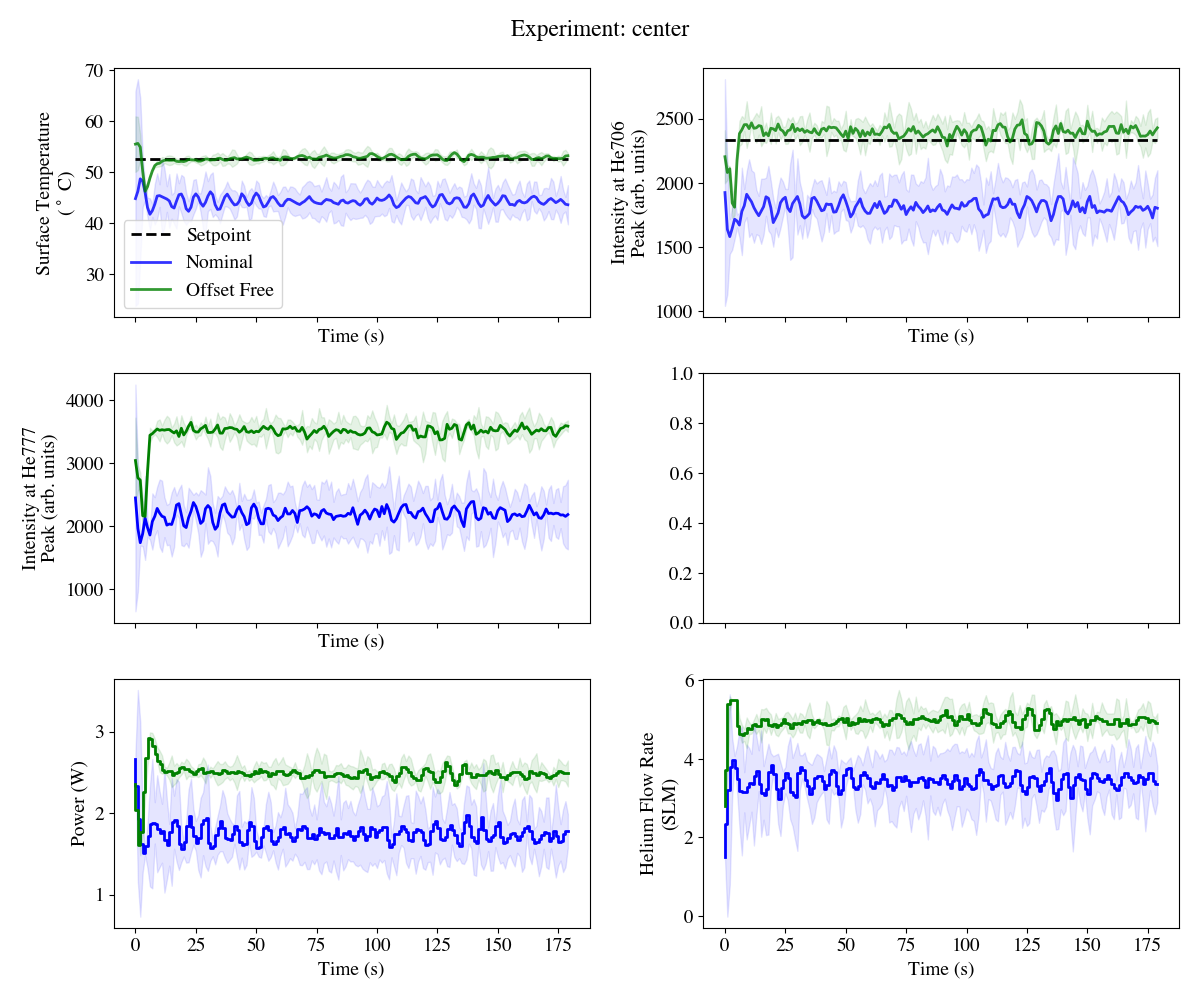
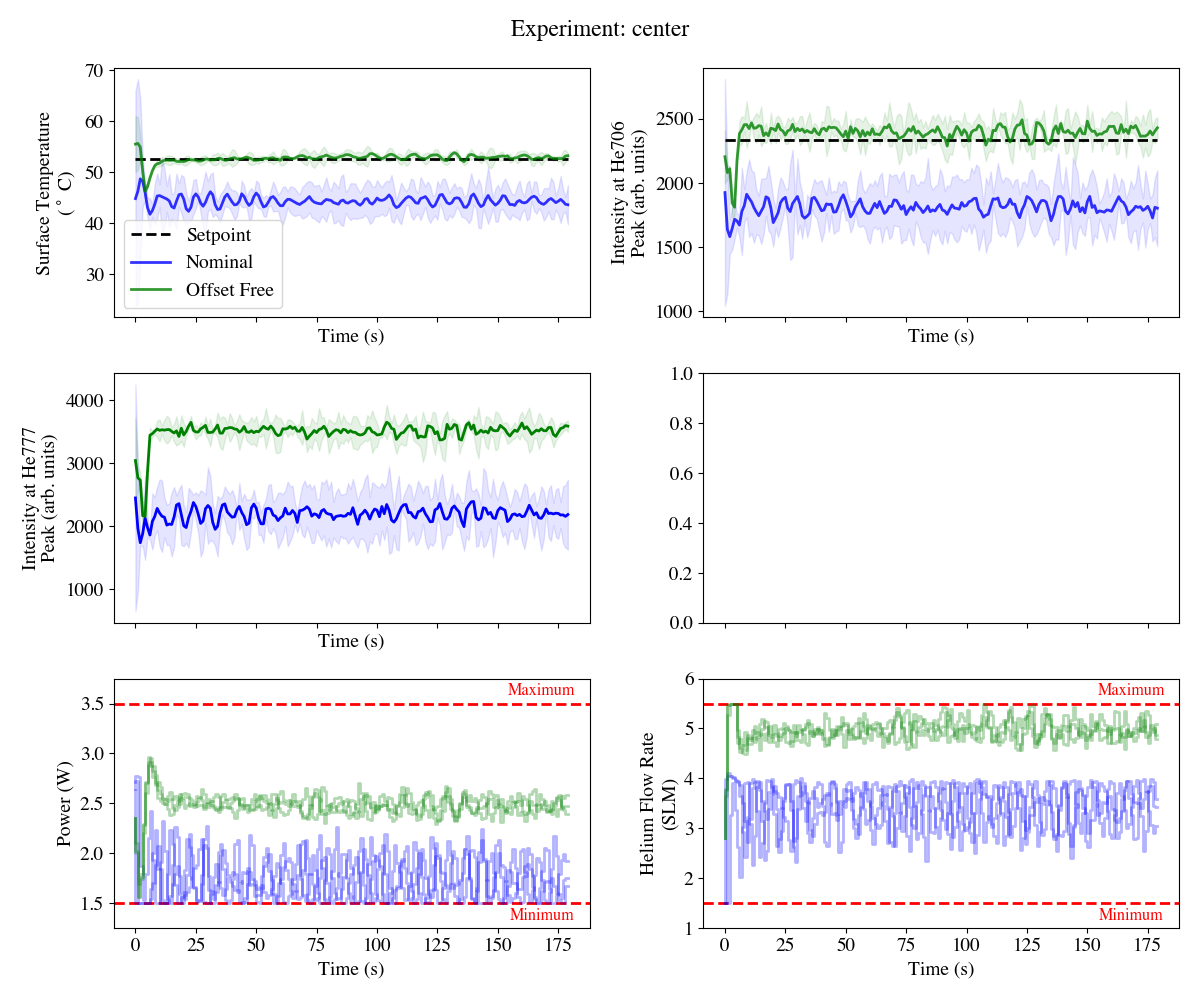
update plotting

diff --git a/OffsetFreeFilter/run_sim.py b/OffsetFreeFilter/run_sim.py
@@ -1,4 +1,4 @@
-#@title Import Packages
+# Import Packages
 import numpy as np
 import matplotlib.pyplot as plt
 
@@ -10,7 +10,7 @@ from utils.observer import EKF
 
 ### user inputs/options
 ts = 1.0 # sampling time, ensure it is the same as the model used
-Nsim = int(10*60/ts) # set the simulation horizon
+Nsim = int(8*60/ts) # set the simulation horizon
 plant_model_file = './models/APPJmodel_TEOS_UCB_LAM_modord3.mat'
 control_model_file = './models/APPJmodel_TEOS_UCB_LAM_modord3.mat'
 # for testing new LTI model for experiments 
@@ -85,14 +85,14 @@ qplot = sim_data['Usim'][1,:] + ussp[1]
 fval = sim_data['fval_sim']
 
 fig, axes = plt.subplots(3,2, sharex=True, figsize=(12,8))
-axes[0,0].plot(np.arange(len(Tref))*ts, Tref, 'k--', label='Reference')
-axes[0,0].axhline(x_max[0]+xss[0], color='r', ls='--', label='Maximum')
-axes[0,0].plot(np.arange(len(Tplot))*ts, Tplot, label='Nominal')
+axes[0,0].plot(np.arange(len(Tref))*ts, Tref, 'k--', label='Setpoint')
+# axes[0,0].axhline(x_max[0]+xss[0], color='r', ls='--', label='Maximum')
+axes[0,0].plot(np.arange(len(Tplot))*ts, Tplot, label='Nominal MPC')
 axes[0,0].set_xlabel('Time (s)')
-axes[0,0].set_ylabel(r'Surface Temperature\n($^\circ C$)')
+axes[0,0].set_ylabel('Surface Temperature\n('+r'$^\circ$'+'C)')
 
-axes[0,1].plot(np.arange(len(I706ref))*ts, I706ref, 'k--', label='Reference')
-axes[0,1].plot(np.arange(len(I706))*ts, I706, label='Nominal')
+axes[0,1].plot(np.arange(len(I706ref))*ts, I706ref, 'k--', label='Setpoint')
+axes[0,1].plot(np.arange(len(I706))*ts, I706, label='Nominal MPC')
 axes[0,1].set_xlabel('Time (s)')
 axes[0,1].set_ylabel('Intensity at He706\nPeak (arb. units)')
 
@@ -100,14 +100,42 @@ axes[1,0].plot(np.arange(len(I777))*ts, I777, label='Nominal')
 axes[1,0].set_xlabel('Time (s)')
 axes[1,0].set_ylabel('Intensity at O777\nPeak (arb. units)')
 
-axes[1,1].plot(np.arange(len(fval))*ts, fval)
+axes[1,1].plot(np.arange(len(fval))*ts, fval, color='g')
 axes[1,1].set_xlabel('Time (s)')
 axes[1,1].set_ylabel('Filter Value')
 
+axes[2,0].axhline(u_max[0]+uss[0], color='r', ls='--')
+axes[2,0].text(0.9, 0.9, 'Maximum', fontsize='small',
+               horizontalalignment='center',
+               verticalalignment='center', 
+               transform=axes[2,0].transAxes,
+               color='r',
+               )
+axes[2,0].axhline(u_min[0]+uss[0], color='r', ls='--')
+axes[2,0].text(0.9, 0.1, 'Minimum', fontsize='small',
+               horizontalalignment='center',
+               verticalalignment='center', 
+               transform=axes[2,0].transAxes,
+               color='r',
+               )
 axes[2,0].step(np.arange(len(Pplot))*ts, Pplot, label='Nominal')
 axes[2,0].set_xlabel('Time (s)')
 axes[2,0].set_ylabel('Applied Power (W)')
 
+axes[2,1].axhline(u_max[1]+uss[1], color='r', ls='--')
+axes[2,1].text(0.9, 0.9, 'Maximum', fontsize='small',
+               horizontalalignment='center',
+               verticalalignment='center', 
+               transform=axes[2,1].transAxes,
+               color='r',
+               )
+axes[2,1].axhline(u_min[1]+uss[1], color='r', ls='--')
+axes[2,1].text(0.9, 0.1, 'Minimum', fontsize='small',
+               horizontalalignment='center',
+               verticalalignment='center', 
+               transform=axes[2,1].transAxes,
+               color='r',
+               )
 axes[2,1].step(np.arange(len(qplot))*ts, qplot, label='Nominal')
 axes[2,1].set_xlabel('Time (s)')
 axes[2,1].set_ylabel('Helium Flow Rate (SLM)')
@@ -163,16 +191,18 @@ Pplot = sim_data['Usim'][0,:] + ussp[0]
 qplot = sim_data['Usim'][1,:] + ussp[1]
 fval = sim_data['fval_sim']
 
-axes[0,0].plot(np.arange(len(Tplot))*ts, Tplot, label='Offset-free')
+axes[0,0].plot(np.arange(len(Tplot))*ts, Tplot, label='Offset-free MPC')
+axes[0,0].legend(fontsize='small', loc='upper center')
 
-axes[0,1].plot(np.arange(len(I706))*ts, I706, label='Offset-free')
+axes[0,1].plot(np.arange(len(I706))*ts, I706, label='Offset-free MPC')
+axes[0,1].legend(fontsize='small', loc='lower center')
 
 axes[1,0].plot(np.arange(len(I777))*ts, I777, label='Offset-free')
 
 axes[2,0].step(np.arange(len(Pplot))*ts, Pplot, label='Offset-free')
 
 axes[2,1].step(np.arange(len(qplot))*ts, qplot, label='Offset-free')
-axes[2,1].legend()
+# axes[2,1].legend(fontsize='small', loc='best')
 plt.tight_layout()
 plt.draw()
 ax.plot(sim_data['Jsim'], label='Offset-free')

diff --git a/OffsetFreeFilter/plot_data_detail.py b/OffsetFreeFilter/plot_data_detail.py
@@ -11,7 +11,7 @@ processing_info_file = './models/2023_08_21_17h31m03s_APPJ_model_train_data.mat'
 processing_info = loadmat(processing_info_file)
 
 # experiment switch
-experiment_name = 'off center' # options: ['no filter', 'center', 'off center']
+experiment_name = 'center' # options: ['no filter', 'center', 'off center']
 experiment_time = 'afternoon' # options: ['morning', 'afternoon']
 
 
@@ -126,25 +126,62 @@ def plot_data(filepaths, mpc_type, processing_info, fig_objs=None):
     axes[1,0].set_xlabel('Time (s)')
     axes[1,0].set_ylabel('Intensity at He777\nPeak (arb. units)')
 
-    axes[2,0].step(t, meanP, color=color, label=label)
-    axes[2,0].fill_between(
-        t, 
-        meanP-2*stdP, 
-        meanP+2*stdP, 
-        alpha=0.1,
-        color=color,
-    )
+    if first_plot:
+        axes[2,0].axhline(1.5, color='r', ls='--')
+        axes[2,0].text(0.9, 0.05, 'Minimum', fontsize='small',
+               horizontalalignment='center',
+               verticalalignment='center', 
+               transform=axes[2,0].transAxes,
+               color='r',
+               )
+        axes[2,0].axhline(3.5, color='r', ls='--')
+        axes[2,0].text(0.9, 0.95, 'Maximum', fontsize='small',
+               horizontalalignment='center',
+               verticalalignment='center', 
+               transform=axes[2,0].transAxes,
+               color='r',
+               )
+        
+        axes[2,1].axhline(1.5, color='r', ls='--')
+        axes[2,1].text(0.9, 0.05, 'Minimum', fontsize='small',
+               horizontalalignment='center',
+               verticalalignment='center', 
+               transform=axes[2,1].transAxes,
+               color='r',
+               )
+        axes[2,1].axhline(5.5, color='r', ls='--')
+        axes[2,1].text(0.9, 0.95, 'Maximum', fontsize='small',
+               horizontalalignment='center',
+               verticalalignment='center', 
+               transform=axes[2,1].transAxes,
+               color='r',
+               )
+
+    for Pdata in P_datas:
+        axes[2,0].step(t, Pdata, color=color, label=label, alpha=0.3)
+    # axes[2,0].step(t, meanP, color=color, label=label)
+    # axes[2,0].fill_between(
+    #     t, 
+    #     meanP-2*stdP, 
+    #     meanP+2*stdP, 
+    #     alpha=0.1,
+    #     color=color,
+    # )
+    axes[2,0].set_ylim(1.25, 3.75)
     axes[2,0].set_xlabel('Time (s)')
     axes[2,0].set_ylabel('Power (W)')
 
-    axes[2,1].step(t, meanq, color=color, label=label)
-    axes[2,1].fill_between(
-        t, 
-        meanq-2*stdq, 
-        meanq+2*stdq, 
-        alpha=0.1,
-        color=color,
-    )
+    for qdata in q_datas:
+        axes[2,1].step(t, qdata, color=color, label=label, alpha=0.3)
+    # axes[2,1].step(t, meanq, color=color, label=label)
+    # axes[2,1].fill_between(
+    #     t, 
+    #     meanq-2*stdq, 
+    #     meanq+2*stdq, 
+    #     alpha=0.1,
+    #     color=color,
+    # )
+    axes[2,1].set_ylim(1.0, 6.0)
     axes[2,1].set_xlabel('Time (s)')
     axes[2,1].set_ylabel('Helium Flow Rate\n(SLM)')
     plt.draw()

diff --git a/OffsetFreeFilter/utils/simulation.py b/OffsetFreeFilter/utils/simulation.py
@@ -98,7 +98,7 @@ class Simulation():
                         multistage=False,
                         rand_seed2=0,
                         time_vary_filter=False,
-                        ):
+        ):
         """
         This method runs a closed-loop simulation of the system using
         information derived from loading problem information and a controller
@@ -131,28 +131,43 @@ class Simulation():
                 def filter_func(t, filter_val_init=filter_val):
                     if t<= 120:
                         return filter_val_init
-                    elif t<= 240:
-                        return filter_val_init*0.95
-                    elif t<= 360:
-                        return filter_val_init*0.9
-                    elif t<= 480:
-                        return filter_val_init*0.85
-                    elif t<= 600:
-                        return filter_val_init*0.8
-                    elif t<= 720:
-                        return filter_val_init*0.75
-                    elif t<= 840:
-                        return filter_val_init*0.7
-                    elif t<= 960:
-                        return filter_val_init*0.65
-                    else:
-                        return 0.6
+                    ###
+                    # elif t<= 240:
+                    #     return filter_val_init*0.95
+                    # elif t<= 360:
+                    #     return filter_val_init*0.9
+                    # elif t<= 480:
+                    #     return filter_val_init*0.85
+                    # elif t<= 600:
+                    #     return filter_val_init*0.8
+                    # elif t<= 720:
+                    #     return filter_val_init*0.75
+                    # elif t<= 840:
+                    #     return filter_val_init*0.7
+                    # elif t<= 960:
+                    #     return filter_val_init*0.65
+                    # else:
+                    #     return 0.6
+                    ###
+                    ###
                     # else:
                     #     val = (0.5-1.0)/(480-120)*t + 7.0/6
                     #     if val >= 0.5:
                     #         return val
                     #     else:
                     #         return 0.5
+                    ###
+                    ###
+                    elif t <= 360:
+                        val = (0.95-1.0)/(360-120)*t + 1.025
+                        return val
+                    elif t <= 840:
+                        val = (0.5-0.95)/(840-360)*t + 1.2875
+                        if val >= 0.5:
+                            return val
+                    else:
+                        return 0.5
+                    ###
 
         if multistage:
             Wset = self.prob_info['Wset']

diff --git a/OffsetFreeFilter/config/my_system.py b/OffsetFreeFilter/config/my_system.py
@@ -77,7 +77,7 @@ def get_prob_info(
     # myref = lambda t: myRef(t, ts, ref=np.array([0.6, -0.2])) - xss[:nyc] # reference signal
     # ------ use this for new LTI model for experiments -------
 
-    x0 = np.zeros((nx,)) # initial state
+    x0 = np.array([58.0,2950.0,4400.0]) - xss#np.zeros((nx,)) # initial state
 
     ## load/set MPC info
     # constraint bounds
